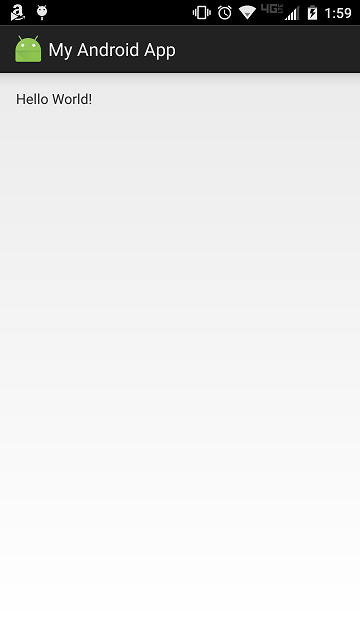
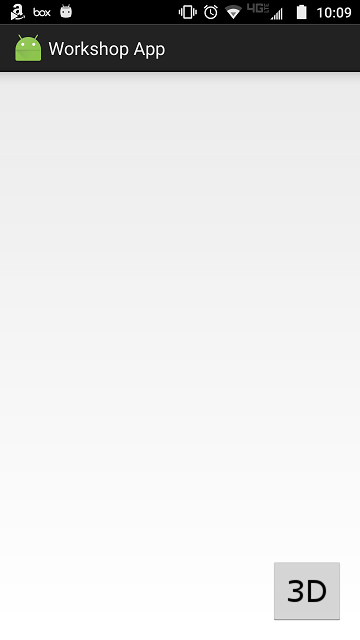
Added 3D to Android Exercise 1

diff --git a/runtime-workshop/solutions/Android/Ex1_MapAndScene/app/src/main/java/com/esri/wdc/geodev/MainActivity.java b/runtime-workshop/solutions/Android/Ex1_MapAndScene/app/src/main/java/com/esri/wdc/geodev/MainActivity.java
@@ -2,26 +2,47 @@ package com.esri.wdc.geodev;
 
 import android.app.Activity;
 import android.os.Bundle;
+import android.view.View;
+import android.view.ViewGroup;
+import android.widget.ImageButton;
+import android.widget.LinearLayout;
 
 import com.esri.arcgisruntime.mapping.ArcGISMap;
+import com.esri.arcgisruntime.mapping.ArcGISScene;
+import com.esri.arcgisruntime.mapping.ArcGISTiledElevationSource;
 import com.esri.arcgisruntime.mapping.Basemap;
 import com.esri.arcgisruntime.mapping.view.MapView;
+import com.esri.arcgisruntime.mapping.view.SceneView;
 
 public class MainActivity extends Activity {
+
+    // Exercise 1: Specify elevation service URL
+    private static final String ELEVATION_IMAGE_SERVICE =
+            "http://elevation3d.arcgis.com/arcgis/rest/services/WorldElevation3D/Terrain3D/ImageServer";
 
     // Exercise 1: Declare and instantiate fields
     private MapView mapView = null;
     private ArcGISMap map = new ArcGISMap();
+    private SceneView sceneView = null;
+    private ArcGISScene scene = new ArcGISScene();
+    private ImageButton imageButton_toggle2d3d = null;
+    private boolean threeD = false;
 
     @Override
     protected void onCreate(Bundle savedInstanceState) {
         super.onCreate(savedInstanceState);
         setContentView(R.layout.activity_main);
 
-        // Exercise 1: Set up the map
+        // Exercise 1: Set up the 2D map.
         mapView = (MapView) findViewById(R.id.mapView);
         map.setBasemap(Basemap.createNationalGeographic());
         mapView.setMap(map);
+
+        // Exercise 1: Set up the 3D scene.
+        sceneView = findViewById(R.id.sceneView);
+        scene.setBasemap(Basemap.createImagery());
+        sceneView.setScene(scene);
+        scene.getBaseSurface().getElevationSources().add(new ArcGISTiledElevationSource(ELEVATION_IMAGE_SERVICE));
     }
 
     /**
@@ -30,6 +51,7 @@ public class MainActivity extends Activity {
     @Override
     protected void onResume() {
         mapView.resume();
+        sceneView.resume();
         super.onResume();
     }
 
@@ -39,6 +61,7 @@ public class MainActivity extends Activity {
     @Override
     protected void onPause() {
         mapView.pause();
+        sceneView.pause();
         super.onPause();
     }
 
@@ -48,6 +71,31 @@ public class MainActivity extends Activity {
     @Override
     protected void onDestroy() {
         mapView.dispose();
+        sceneView.dispose();
         super.onDestroy();
+    }
+
+    /**
+     * Exercise 1: Toggle between 2D map and 3D scene.
+     */
+    public void imageButton_toggle2d3d_onClick(View view) {
+        threeD = !threeD;
+        setWeight(mapView, threeD ? 1f : 0f);
+        setWeight(sceneView, threeD ? 0f : 1f);
+        if (null == imageButton_toggle2d3d) {
+            imageButton_toggle2d3d = findViewById(R.id.imageButton_toggle2d3d);
+        }
+        imageButton_toggle2d3d.setImageResource(threeD ? R.drawable.two_d : R.drawable.three_d);
+    }
+
+    /**
+     * Exercise 1: Set the weight of a View, e.g. to show or hide it.
+     */
+    private void setWeight(View view, float weight) {
+        final ViewGroup.LayoutParams params = view.getLayoutParams();
+        if (params instanceof LinearLayout.LayoutParams) {
+            ((LinearLayout.LayoutParams) params).weight = weight;
+        }
+        view.setLayoutParams(params);
     }
 }

diff --git a/runtime-workshop/exercises/Android/Exercise 1 Map and Scene.md b/runtime-workshop/exercises/Android/Exercise 1 Map and Scene.md
@@ -1,9 +1,10 @@
-# Exercise 1: Map (Android)
+# Exercise 1: Map and Scene (Android)
 
 This exercise walks you through the following:
 - Create a new Android app
 - Add ArcGIS Runtime to the app
-- Add a map to the app
+- Add a 2D map to the app
+- Add a 3D scene to the app, and use a toggle button to switch between 2D and 3D
 
 Prerequisites:
 - Install the Java Development Kit (JDK) version 6 or higher. Version 8 or higher is recommended.
@@ -16,6 +17,22 @@ If you need some help, you can refer to [the solution to this exercise](../../so
 
 ## Create a new Android app
 1. Open Android Studio and start a new Android Studio project. Specify a minimum API level of 16 or higher, as required by ArcGIS Runtime Quartz. On the **Add an Activity to Mobile** screen, choose **Empty Activity** (not **Blank Activity** or **Add No Activity**). Call your activity `MainActivity`, ensure the **Generate Layout File** box is checked, and name the layout `activity_main`. For these exercises, it may be easier if you uncheck **Backwards Compatibility (AppCompat)**, but you should be able to complete the exercises either way. Click Finish, and an Android Studio project is created and opened.
+
+1. Go to [the images directory](../../images) of this repository and copy all of the images to your Android Studio project's `res/drawable` directory. (Copying the images is easier if you clone this repo, or if you fork this repo and clone your fork.)
+
+1. Under `app`, open `res/layout/activity_main.xml`. This XML file provides the layout for your app's main `Activity`. Look at the top-level XML element. Change its type to `RelativeLayout`. Typically this means you will replace `android.support.constraint.ConstraintLayout` with `RelativeLayout`, though it is possible that your Android Studio release will use a different type. Make this change at the start and end of `activity_main.xml`. _Note: ArcGIS components work well with `ConstraintLayout`, but since this exercise is about ArcGIS and not about Android layouts, we use the simpler `RelativeLayout`._
+
+1. `res/layout/activity_main.xml` probably contains a `TextView` inside the `RelativeLayout`. Replace the `TextView` with a button for toggling between 2D and 3D. Use the 3D image for the button:
+
+    ```
+    <ImageButton
+        android:id="@+id/imageButton_toggle2d3d"
+        android:layout_width="wrap_content"
+        android:layout_height="wrap_content"
+        android:layout_alignParentRight="true"
+        android:layout_alignParentBottom="true"
+        android:src="@drawable/three_d"/>
+    ```
 
 1. Connect your Android device to your computer with a USB cable. In Android Studio, run your new app. Verify that a blank app runs, possibly with a default "Hello World" message inserted by Android Studio:
 
@@ -53,7 +70,7 @@ If you need some help, you can refer to [the solution to this exercise](../../so
     
 1. Choose **Tools** > **Android** > **Sync Project with Gradle Files** (or click the sync button on the toolbar). The ArcGIS Runtime libraries are downloaded automatically from the Maven repository.
 
-## Add a map to the app
+## Add a 2D map to the app
 
 1. Open `manifests/AndroidManifest.xml`. Inside the `<manifest>` element but not inside the `<application>` element, add the following elements to 1) request INTERNET permission and 2) require OpenGL:
 
@@ -69,14 +86,13 @@ If you need some help, you can refer to [the solution to this exercise](../../so
             android:configChanges="orientation|screenSize">
     ```
 
-1. Under `app`, open `res/layout/activity_main.xml`. This XML file provides the layout for your app's main `Activity`. It probably contains a `RelativeLayout`, which contains a `TextView`. Replace the `TextView` with a `MapView` that fills the layout:
+1. In `res/layout/activity_main.xml`, before the 2D/3D toggle button but inside the layout, add a `MapView` that fills the layout:
 
     ```
     <com.esri.arcgisruntime.mapping.view.MapView
         android:id="@+id/mapView"
         android:layout_width="fill_parent"
-        android:layout_height="fill_parent" >
-    </com.esri.arcgisruntime.mapping.view.MapView>
+        android:layout_height="fill_parent"/>
     ```
 
 1. Open your `MainActivity` class. In that class, declare a non-final `MapView` and set it to `null`. Also declare and instantiate a new `ArcGISMap`:
@@ -119,6 +135,101 @@ If you need some help, you can refer to [the solution to this exercise](../../so
 1. Run your app. Verify that a map displays:
 
     ![Map](02-map.png)
+
+## Add a 3D scene to the app, and use a toggle button to switch between 2D and 3D
+
+Everyone loves 3D! To conclude this exercise, you will add a 3D scene to the app, as well as a button that lets the user toggle between seeing the 2D map and seeing the 3D scene.
+
+1. In `res/layout/activity_main.xml`, wrap the `MapView` in a `LinearLayout`, which you will use to toggle between the `MapView` and a new `SceneView`. Add a `SceneView` to the `LinearLayout` and set its `layout_weight` to `1`. Set the `MapView`'s `layout_weight` to `0`. This has the effect of maximizing the `MapView` and hiding the `SceneView`. Here's what your XML should look like, in place of the `MapView` tag you previously had:
+
+    ```
+    <LinearLayout
+        android:layout_width="match_parent"
+        android:layout_height="match_parent"
+        android:orientation="vertical">
+        <com.esri.arcgisruntime.mapping.view.SceneView
+            android:id="@+id/sceneView"
+            android:layout_width="match_parent"
+            android:layout_height="match_parent"
+            android:layout_weight="1"/>
+        <com.esri.arcgisruntime.mapping.view.MapView
+            android:id="@+id/mapView"
+            android:layout_width="match_parent"
+            android:layout_height="match_parent"
+            android:layout_weight="0"/>
+    </LinearLayout>
+    ```
+
+1. Before your constructor, instantiate a constant for the URL of an elevation service:
+
+    ```
+    private static final String ELEVATION_IMAGE_SERVICE = 
+            "http://elevation3d.arcgis.com/arcgis/rest/services/WorldElevation3D/Terrain3D/ImageServer";
+    ```
+    
+1. Before your constructor, declare a `SceneView` field and instantiate an `ArcGISScene`. Declare an `ImageButton` field for the 2D/3D toggle button. Instantiate a `boolean` field to keep track of whether the app is currently displaying 3D or not:
+
+    ```
+    private SceneView sceneView = null;
+    private ArcGISScene scene = new ArcGISScene();
+    private ImageButton imageButton_toggle2d3d = null;
+    private boolean threeD = false;
+    ```
+    
+1. In your constructor, get the `MapView`, set the `Scene`'s basemap, set the `SceneView`'s `Scene`, and set the `Scene`'s elevation source:
+
+    ```
+    sceneView = findViewById(R.id.sceneView);
+    scene.setBasemap(Basemap.createImagery());
+    sceneView.setScene(scene);
+    scene.getBaseSurface().getElevationSources().add(new ArcGISTiledElevationSource(ELEVATION_IMAGE_SERVICE));
+    ```
+    
+1. In `MainActivity`, in `onResume()`, `onPause()`, and `onDestroy()`, call `resume()`, `pause()`, and `dispose()` respectively on the `SceneView`, just as you did on the `MapView` already.
+    
+1. Declare a `public void` method with a `View` parameter to be called when the 2D/3D toggle button is clicked. Inside this method, change the value of the `threeD` field, set the value of `imageButton_toggle2d3d` if it has not been set, and change the button's image:
+
+    ```
+    public void imageButton_toggle2d3d_onClick(View view) {
+        threeD = !threeD;
+        if (null == imageButton_toggle2d3d) {
+            imageButton_toggle2d3d = findViewById(R.id.imageButton_toggle2d3d);
+        }
+        imageButton_toggle2d3d.setImageResource(threeD ? R.drawable.two_d : R.drawable.three_d);
+    }
+    ```
+
+1. In `res/layout/activity_main.xml`, in the `ImageButton` for toggling between 2D and 3D, add an `onClick` handler that calls the method you wrote in the previous step:
+
+    ```
+    android:onClick="imageButton_toggle2d3d_onClick"
+    ```
+    
+1. Compile and run your app. Verify that clicking the button changes its image (or text).
+
+1. To toggle between the 2D map and the 3D scene, you will call `setWeight` on the `MapView` and `SceneView`. If the `MapView` has a weight of `1` and the `SceneView` has a weight of `0`, only the `SceneView` will display. Setting the weight takes a few lines of code, so create a method to do it for you:
+
+    ```
+    // Note: this will only have an effect when the parent View is of type LinearLayout.
+    private void setWeight(View view, float weight) {
+        final ViewGroup.LayoutParams params = view.getLayoutParams();
+        if (params instanceof LinearLayout.LayoutParams) {
+            ((LinearLayout.LayoutParams) params).weight = weight;
+        }
+        view.setLayoutParams(params);
+    }
+    ```
+    
+1. In your event handler method for the 2D/3D toggle button, after changing the value of the `threeD` field, set the weight of `mapView` and `sceneView` according to the value of `threeD`:
+
+    ```
+    setWeight(mapView, threeD ? 1f : 0f);
+    setWeight(sceneView, threeD ? 0f : 1f);
+    ```
+    
+1. Compile and run your app. Verify that tapping the button changes its image (or text) and also toggles between 2D and 3D:
+    
+    ![Toggle to 3D](03-toggle-to-3d.jpg)
     
 ## How did it go?
 

diff --git a/runtime-workshop/exercises/Android/Exercise 2 Zoom Buttons.md b/runtime-workshop/exercises/Android/Exercise 2 Zoom Buttons.md
@@ -11,8 +11,6 @@ If you need some help, you can refer to [the solution to this exercise](../../so
 
 ## Add zoom in and zoom out buttons to the UI
 
-1. Go to [the images directory](../../images) of this repository and copy all of the images to your Android Studio project's `res/drawable` directory. (Copying the images is easier if you clone this repo, or if you fork this repo and clone your fork.)
-
 1. In `res/layout/activity_main.xml`, add to the `RelativeLayout` two buttons: one for zooming in, and one for zooming out, and place them in the lower right corner of the app (note: `zoom_out` and `zoom_in` refer to images that you copied in the previous step):
 
     ```
